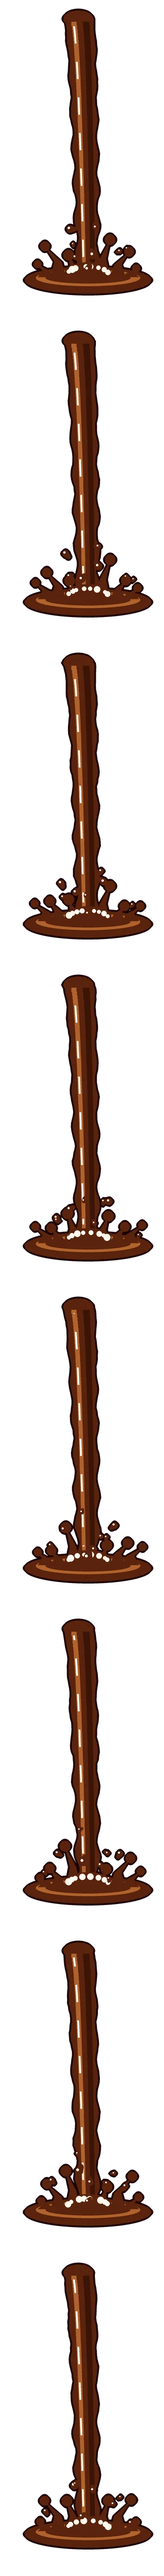
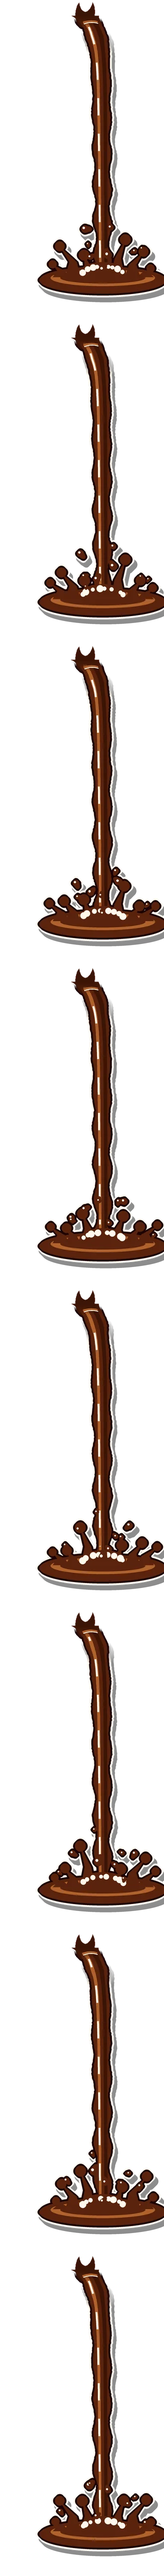
fix: pour the cola from the can's own opening so it merges with the art
The sprite now fills the can's traced drink hole, rolls the cola over the
rim from shadow, arcs it out sideways before it falls, and bakes in a
keyline that only fades in below the rim. The sprite drops sticker-edge
(it would double the keyline) and undoes the tilt about the hole.

Changed region(s): [[0.1515, 0.0, 1.0, 0.9984]]

diff --git a/components/art/SodaPour.tsx b/components/art/SodaPour.tsx
@@ -3,9 +3,11 @@ import Image from "next/image";
 const WIDTH = 613;
 const HEIGHT = 899;
 /** The pour sprite's box on the 613x899 can art, as built by
- *  scripts/build-cola-pour.py (its BOX and SPOUT): 8 frames stacked top to bottom. */
+ *  scripts/build-cola-pour.py (its BOX): 8 frames stacked top to bottom. */
 const SPRITE_BOX = { left: 280, top: 150, right: 720, bottom: 1010 };
-const SPOUT = { x: 490, y: 200 };
+/** The middle of the can's drink hole. The sprite fills that hole, so the
+ *  tilt is undone about this point to keep the fill sitting in it. */
+const HOLE = { x: 505, y: 195 };
 const pct = (n: number, of: number) => `${(n / of) * 100}%`;
 
 interface SodaPourProps {
@@ -13,8 +15,9 @@ interface SodaPourProps {
   tilt?: number;
 }
 
-/** The bangled hands tipping a can: a thick, glossy cola stream pours out of
- *  it without end and lands in a cartoon crown splash, drawn frame by frame. */
+/** The bangled hands tipping a can: cola wells up in the can's own drink hole,
+ *  rolls over the rim and pours without end into a cartoon crown splash, drawn
+ *  frame by frame. The sprite bakes in its own keyline, faded in below the rim. */
 export function SodaPour({ tilt = 0 }: SodaPourProps) {
   return (
     <div className="relative">
@@ -33,11 +36,11 @@ export function SodaPour({ tilt = 0 }: SodaPourProps) {
         className="pointer-events-none absolute inset-0"
         style={{
           rotate: `${-tilt}deg`,
-          transformOrigin: `${pct(SPOUT.x, WIDTH)} ${pct(SPOUT.y, HEIGHT)}`,
+          transformOrigin: `${pct(HOLE.x, WIDTH)} ${pct(HOLE.y, HEIGHT)}`,
         }}
       >
         <span
-          className="cola-pour sticker-edge absolute block bg-[url(/art/cola-pour.webp)] bg-no-repeat"
+          className="cola-pour absolute block bg-[url(/art/cola-pour.webp)] bg-no-repeat"
           style={{
             left: pct(SPRITE_BOX.left, WIDTH),
             top: pct(SPRITE_BOX.top, HEIGHT),

diff --git a/scripts/build-cola-pour.py b/scripts/build-cola-pour.py
@@ -1,10 +1,14 @@
 """Build the Contact-page cola pour: a looping, hand-inked stop-motion sprite.
 
-Usage: python3 -I scripts/build-cola-pour.py public/art/cola-pour.webp
+Usage: python3 -I scripts/build-cola-pour.py public/art/soda-can.webp public/art/cola-pour.webp
 
-Each frame is drawn from scratch like a cel: a thick glossy stream that arcs
-out of the can and narrows as it falls, ripples running down it, landing in a
-cartoon crown splash with a puddle, fizz and drops thrown out on arcs. Every
+Each frame is drawn from scratch like a cel. The cola fills the can's own
+drink hole (traced from the can art, so it sits exactly in the opening), rolls
+forward over the lid's lip and falls as a thick glossy stream that arcs out
+and narrows, ripples running down it, landing in a
+cartoon crown splash with a puddle, fizz and drops thrown out on arcs. The cream keyline and hard
+shadow are baked in and fade in only below the rim, so where the cola meets
+the can it reads as part of the drawing, not a sticker laid on top. Every
 moving part repeats a whole number of times per loop, so the last frame runs
 straight back into the first. Frames stack top to bottom in one WebP sprite.
 """
@@ -22,9 +26,24 @@ FRAMES = 8
 # The sprite's box on the 613x899 can art, in art pixels. SodaPour.tsx
 # positions the sprite with the same numbers.
 BOX = (280, 150, 720, 1010)
-SPOUT = (490.0, 200.0)
+# The drink hole on the can art: a point inside it and a box it fits in.
+HOLE_SEED = (505, 195)
+HOLE_BOX = (474, 150, 545, 236)
+HOLE_DARK = 75  # the hole is drawn near-black; anything darker than this is hole
+# The stream leaves the hole at its widest row and rolls over the lip below it.
+SPOUT = (508.0, 192.0)
+LIP_Y = 248.0
 LAND_Y = 880.0
-DRIFT = 26.0  # how far right the stream has carried by the time it lands
+THROW, THROW_FALL = 40.0, 45.0  # sideways throw out of the mouth, and how fast it bends down
+DRIFT = 8.0  # slow drift right on the long fall
+# Below the rim the pour becomes a sticker like the can: keyline + shadow
+# fade in over this band. Above it the outline is the can art's own ink.
+EDGE_FROM, EDGE_TO = 236.0, 290.0
+INK_FROM = 204.0
+# Inside the can the cola is in shadow: it brightens to full colour by
+# EMERGE_TO, and the lip highlight sits where it rolls out of the opening.
+EMERGE_FROM, EMERGE_TO = 192.0, 222.0
+LIP_ROW = 214.0
 SS = 3  # supersampling
 OUT_SCALE = 0.75  # art px -> sprite px (the can shows at most 240 CSS px)
 
@@ -34,6 +53,9 @@ COLA_DARK = (58, 20, 6, 255)
 CARAMEL = (176, 98, 44, 255)
 CREAM = (255, 248, 236, 255)
 INK_PX = 5  # outline width, art px
+KEYLINE_PX = 5  # the sticker-edge keyline: 2 CSS px at the can's 240 px width
+SHADOW = (8, 13)  # the sticker-edge shadow offset (3, 5 CSS px), art px
+SHADOW_ALPHA = 0.45
 QUALITY = 86
 
 
@@ -42,13 +64,22 @@ def to_px(x: float, y: float) -> tuple[float, float]:
 
 
 def centre_x(y: float) -> float:
-    t = max(0.0, (y - SPOUT[1]) / (LAND_Y - SPOUT[1]))
-    return SPOUT[0] + DRIFT * math.sqrt(t)
+    # The can is tipped with its mouth to the right, so the cola shoots out
+    # sideways first and gravity bends it down: fast drift, then near plumb.
+    d = max(0.0, y - SPOUT[1])
+    return SPOUT[0] + THROW * (1 - math.exp(-d / THROW_FALL)) + DRIFT * math.sqrt(d / (LAND_Y - SPOUT[1]))
 
 
 def half_width(y: float) -> float:
     t = max(0.0, (y - SPOUT[1]) / (LAND_Y - SPOUT[1]))
-    return 40 - 13 * math.sqrt(t)
+    # As wide as the hole where it leaves, swelling as it rolls over the lip.
+    bulge = 3.5 * math.exp(-(((y - LIP_Y) / 18) ** 2))
+    across = 25.5 + bulge - 8 * math.sqrt(t)
+    # Measured across a slanted stream, so stretch it to a horizontal span.
+    d = max(0.0, y - SPOUT[1])
+    slope = THROW / THROW_FALL * math.exp(-d / THROW_FALL) + 0.5 * DRIFT / math.sqrt(
+        max(d, 1.0) * (LAND_Y - SPOUT[1]))
+    return across * math.sqrt(1 + slope * slope)
 
 
 def stream_edges(phase: float, rng: random.Random) -> tuple[list, list]:
@@ -56,44 +87,40 @@ def stream_edges(phase: float, rng: random.Random) -> tuple[list, list]:
     y = SPOUT[1]
     while y <= LAND_Y + 20:
         t = (y - SPOUT[1]) / (LAND_Y - SPOUT[1])
-        amp = 1.5 + 4.5 * t
+        amp = 0.5 + 5.5 * t
         ripple_l = amp * math.sin(2 * math.pi * (y / 95 - phase))
         ripple_r = amp * math.sin(2 * math.pi * (y / 95 - phase) + 2.1)
         jitter = lambda: rng.uniform(-0.8, 0.8)  # noqa: E731 - the boiling line
         cx, hw = centre_x(y), half_width(y)
         left.append(to_px(cx - hw + ripple_l + jitter(), y))
         right.append(to_px(cx + hw + ripple_r + jitter(), y))
-        y += 10
+        y += 4
     return left, right
 
 
 def draw_stream(fill: ImageDraw.ImageDraw, phase: float, rng: random.Random) -> None:
     left, right = stream_edges(phase, rng)
     fill.polygon(left + right[::-1], fill=COLA)
-    # Round lip where the cola leaves the can.
-    sx, sy = to_px(*SPOUT)
-    r = 40 * SS
-    fill.ellipse((sx - r, sy - r * 0.55, sx + r, sy + r * 0.55), fill=COLA)
     # Dark core on the right, a caramel band and dashed cream glints on the left
     # that run down the stream one ripple per loop.
-    y = SPOUT[1] + 8
+    y = SPOUT[1] + 14
     while y < LAND_Y - 10:
         cx, hw = centre_x(y), half_width(y)
         x0, y0 = to_px(cx + hw * 0.25, y)
-        x1, y1 = to_px(cx + hw * 0.7, y + 11)
+        x1, y1 = to_px(cx + hw * 0.7, y + 5)
         fill.rectangle((x0, y0, x1, y1), fill=COLA_DARK)
         x0, _ = to_px(cx - hw * 0.55, y)
         x1, _ = to_px(cx - hw * 0.2, y)
         fill.rectangle((x0, y0, x1, y1), fill=CARAMEL)
-        y += 10
+        y += 4
     dash, gap = 46, 49
     period = dash + gap
-    start = SPOUT[1] + 20 + (phase * period) % period - period
+    start = SPOUT[1] + 30 + (phase * period) % period - period
     while start < LAND_Y - 40:
-        a, b = max(start, SPOUT[1] + 18), min(start + dash, LAND_Y - 40)
+        a, b = max(start, SPOUT[1] + 30), min(start + dash, LAND_Y - 40)
         if b > a:
             pts = []
-            for yy in np.linspace(a, b, 6):
+            for yy in np.linspace(a, b, 12):
                 cx, hw = centre_x(yy), half_width(yy)
                 pts.append(to_px(cx - hw * 0.42, yy))
             fill.line(pts, fill=CREAM, width=int(5 * SS), joint="curve")
@@ -168,7 +195,48 @@ def draw_splash(fill: ImageDraw.ImageDraw, f: int, rng: random.Random) -> None:
         teardrop(fill, x, y, r * (1 - 0.35 * p), angle)
 
 
-def frame(f: int) -> Image.Image:
+def hole_mask(can_path: Path) -> np.ndarray:
+    """The can's drink hole on the sprite canvas, traced from the art itself."""
+    art = np.asarray(Image.open(can_path).convert("RGBA")).astype(float)
+    x0, y0, x1, y1 = HOLE_BOX
+    patch = art[y0:y1, x0:x1]
+    dark = (patch[..., :3].mean(axis=-1) < HOLE_DARK) & (patch[..., 3] > 128)
+    labels, _ = ndimage.label(dark)
+    seed = labels[HOLE_SEED[1] - y0, HOLE_SEED[0] - x0]
+    if seed == 0:
+        sys.exit("HOLE_SEED is not inside the can's drink hole")
+    hole = ndimage.binary_fill_holes(labels == seed)
+    # Close the pull-tab's notch and keep the art's own ink rim showing.
+    hole = ndimage.binary_closing(hole, iterations=3)
+    hole = ndimage.binary_erosion(hole, iterations=1)
+    w = (BOX[2] - BOX[0]) * SS
+    h = (BOX[3] - BOX[1]) * SS
+    big = Image.fromarray((hole * 255).astype(np.uint8)).resize(
+        ((x1 - x0) * SS, (y1 - y0) * SS), Image.Resampling.BILINEAR)
+    canvas = np.zeros((h, w), dtype=bool)
+    ox, oy = (x0 - BOX[0]) * SS, (y0 - BOX[1]) * SS
+    canvas[oy:oy + big.height, ox:ox + big.width] = np.asarray(big) > 127
+    return canvas
+
+
+def draw_lip(fill: ImageDraw.ImageDraw, phase: float) -> None:
+    """Light catching the cola as it rolls forward over the hole's edge."""
+    wobble = 2.5 * math.sin(2 * math.pi * phase)
+    for dy, colour, width in ((LIP_ROW + wobble, CARAMEL, 6), (LIP_ROW + 3 + wobble, CREAM, 2.5)):
+        pts = []
+        for u in np.linspace(-0.78, 0.6, 9):
+            hw = half_width(dy)
+            pts.append(to_px(centre_x(dy) + u * hw, dy - 7 * (1 - u * u)))
+        fill.line(pts, fill=colour, width=int(width * SS), joint="curve")
+
+
+def row_weight(h: int, start: float, end: float) -> np.ndarray:
+    """0 above art row `start`, 1 below `end`, as a column to multiply alpha by."""
+    art_y = BOX[1] + np.arange(h) / SS
+    return np.clip((art_y - start) / (end - start), 0, 1)[:, None]
+
+
+def frame(f: int, hole: np.ndarray) -> Image.Image:
     w = (BOX[2] - BOX[0]) * SS
     h = (BOX[3] - BOX[1]) * SS
     rng = random.Random(f * 7919)
@@ -176,22 +244,53 @@ def frame(f: int) -> Image.Image:
     draw = ImageDraw.Draw(colour)
     draw_stream(draw, f / FRAMES, rng)
     draw_splash(draw, f, rng)
-    arr = np.asarray(colour).copy()
+    arr = np.asarray(colour).astype(float)
+    # Cola seen through the opening, the same body as the stream leaving it.
+    arr[hole & (arr[..., 3] == 0)] = COLA_DARK
+    # Out of the dark: blend everything near the opening toward the shadowed cola.
+    dim = 1 - row_weight(h, EMERGE_FROM, EMERGE_TO)[..., None] * np.ones((1, 1, 1))
+    has = arr[..., 3:] > 0
+    arr[..., :3] = np.where(has, arr[..., :3] * (1 - dim) + np.array(COLA_DARK[:3]) * dim,
+                            arr[..., :3])
+    lip = Image.fromarray(arr.astype(np.uint8), "RGBA")
+    draw_lip(ImageDraw.Draw(lip), f / FRAMES)
+    arr = np.asarray(lip).astype(float)
     body = arr[..., 3] > 0
-    # Bold cartoon outline: everything the cola covers, grown by INK_PX.
+
+    # Bold ink outline, except inside the opening where the art has its own.
     ring = ndimage.binary_dilation(body, iterations=INK_PX * SS) & ~body
-    arr[ring] = INK
-    img = Image.fromarray(arr, "RGBA")
+    ink_a = ring * row_weight(h, INK_FROM - 6, INK_FROM + 6)
+    solid = body | ring
+    key = ndimage.binary_dilation(solid, iterations=KEYLINE_PX * SS) & ~solid
+    edge_w = row_weight(h, EDGE_FROM, EDGE_TO)
+    key_a = key * edge_w
+    sticker = solid | key
+    sx, sy = SHADOW[0] * SS, SHADOW[1] * SS
+    shifted = np.zeros_like(sticker)
+    shifted[sy:, sx:] = sticker[:-sy, :-sx]
+    shadow_a = (shifted & ~sticker) * edge_w * SHADOW_ALPHA
+
+    out = np.zeros((h, w, 4))
+    for alpha, rgb in ((shadow_a, (0, 0, 0)), (key_a, CREAM[:3]), (ink_a, INK[:3])):
+        a = alpha[..., None] if alpha.ndim == 2 else alpha
+        out[..., :3] = out[..., :3] * (1 - a) + np.array(rgb) * a
+        out[..., 3:] = out[..., 3:] * (1 - a) + a
+    out[body] = np.concatenate([arr[body][:, :3], np.ones((body.sum(), 1))], axis=1)
+    out[..., 3] *= 255
+    img = Image.fromarray(out.clip(0, 255).astype(np.uint8), "RGBA")
     out_w = round((BOX[2] - BOX[0]) * OUT_SCALE)
     out_h = round((BOX[3] - BOX[1]) * OUT_SCALE)
     return img.resize((out_w, out_h), Image.Resampling.LANCZOS)
 
 
 def main() -> None:
-    if len(sys.argv) != 2:
+    if len(sys.argv) != 3:
         sys.exit(__doc__)
-    out = Path(sys.argv[1])
-    frames = [frame(f) for f in range(FRAMES)]
+    can_path, out = Path(sys.argv[1]), Path(sys.argv[2])
+    if not can_path.is_file():
+        sys.exit(f"No can art at {can_path}")
+    hole = hole_mask(can_path)
+    frames = [frame(f, hole) for f in range(FRAMES)]
     fw, fh = frames[0].size
     sheet = Image.new("RGBA", (fw, fh * FRAMES))
     for i, im in enumerate(frames):
